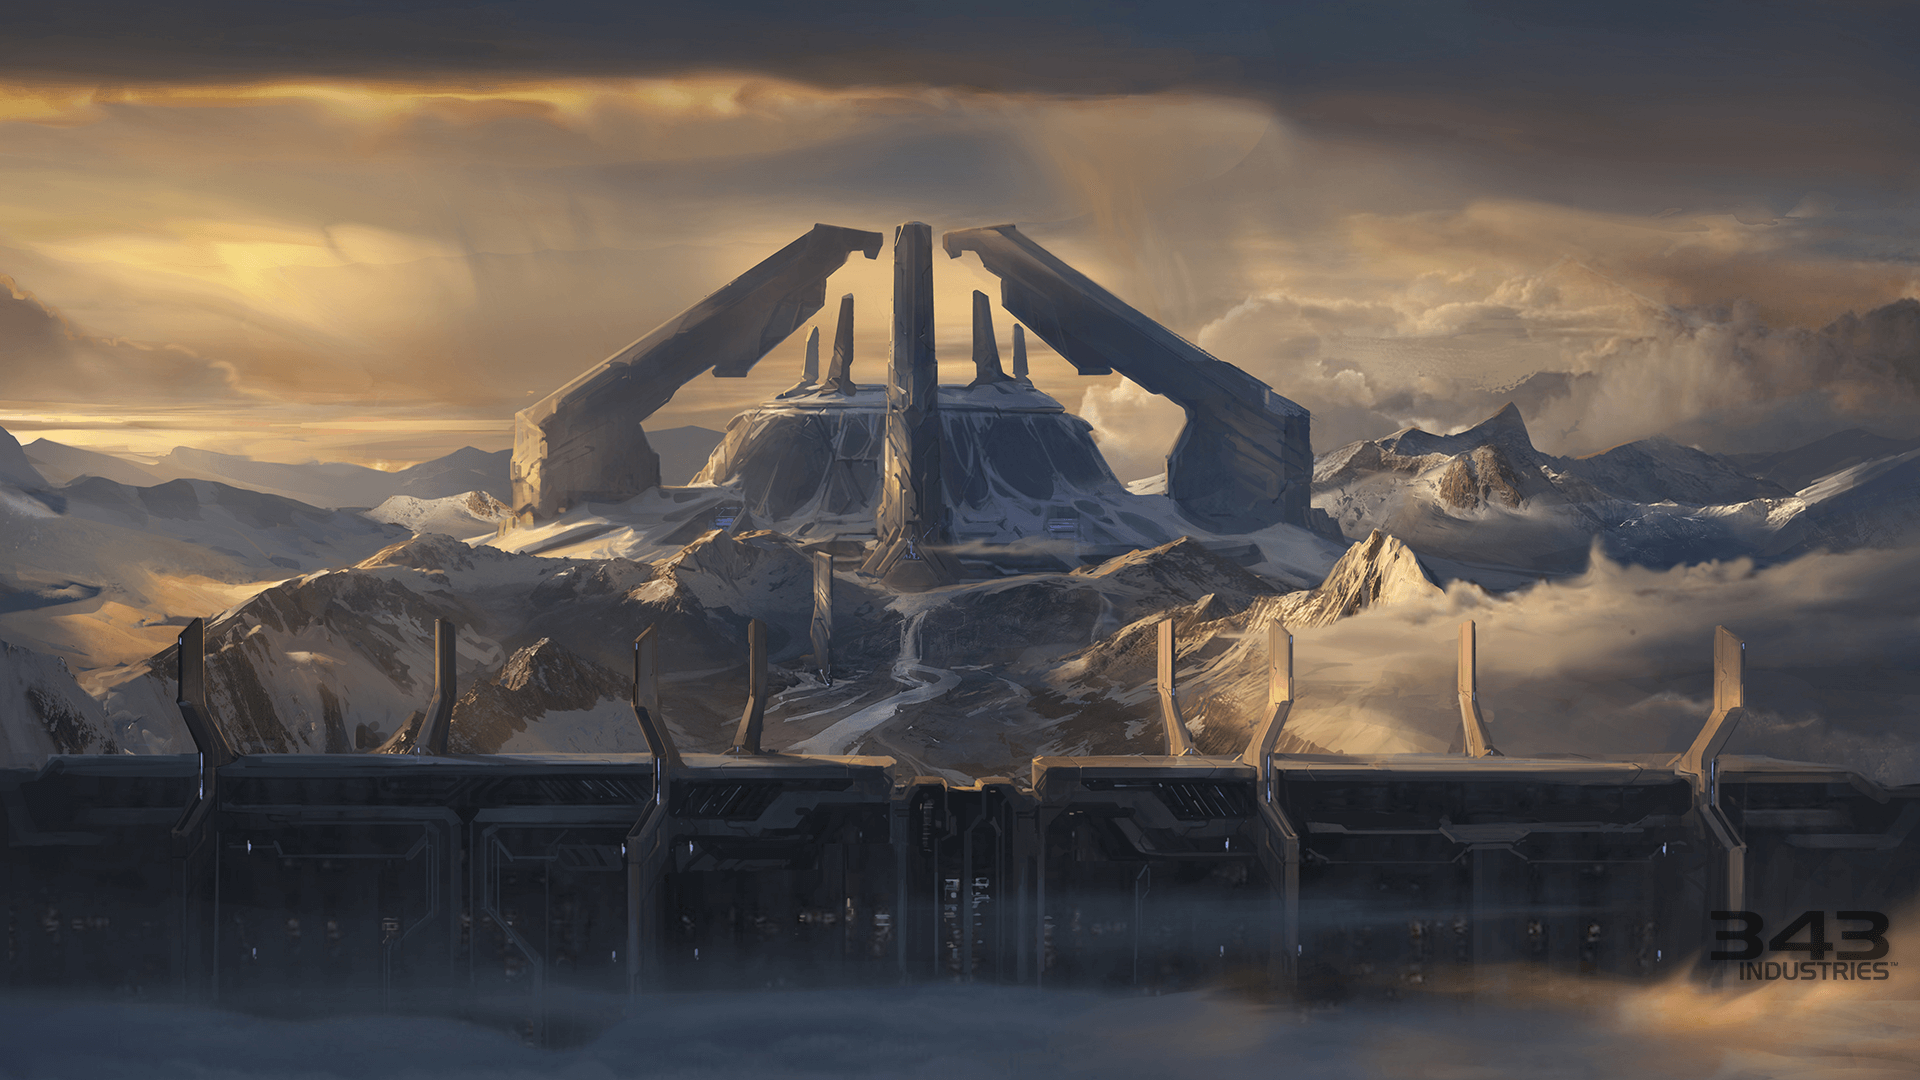
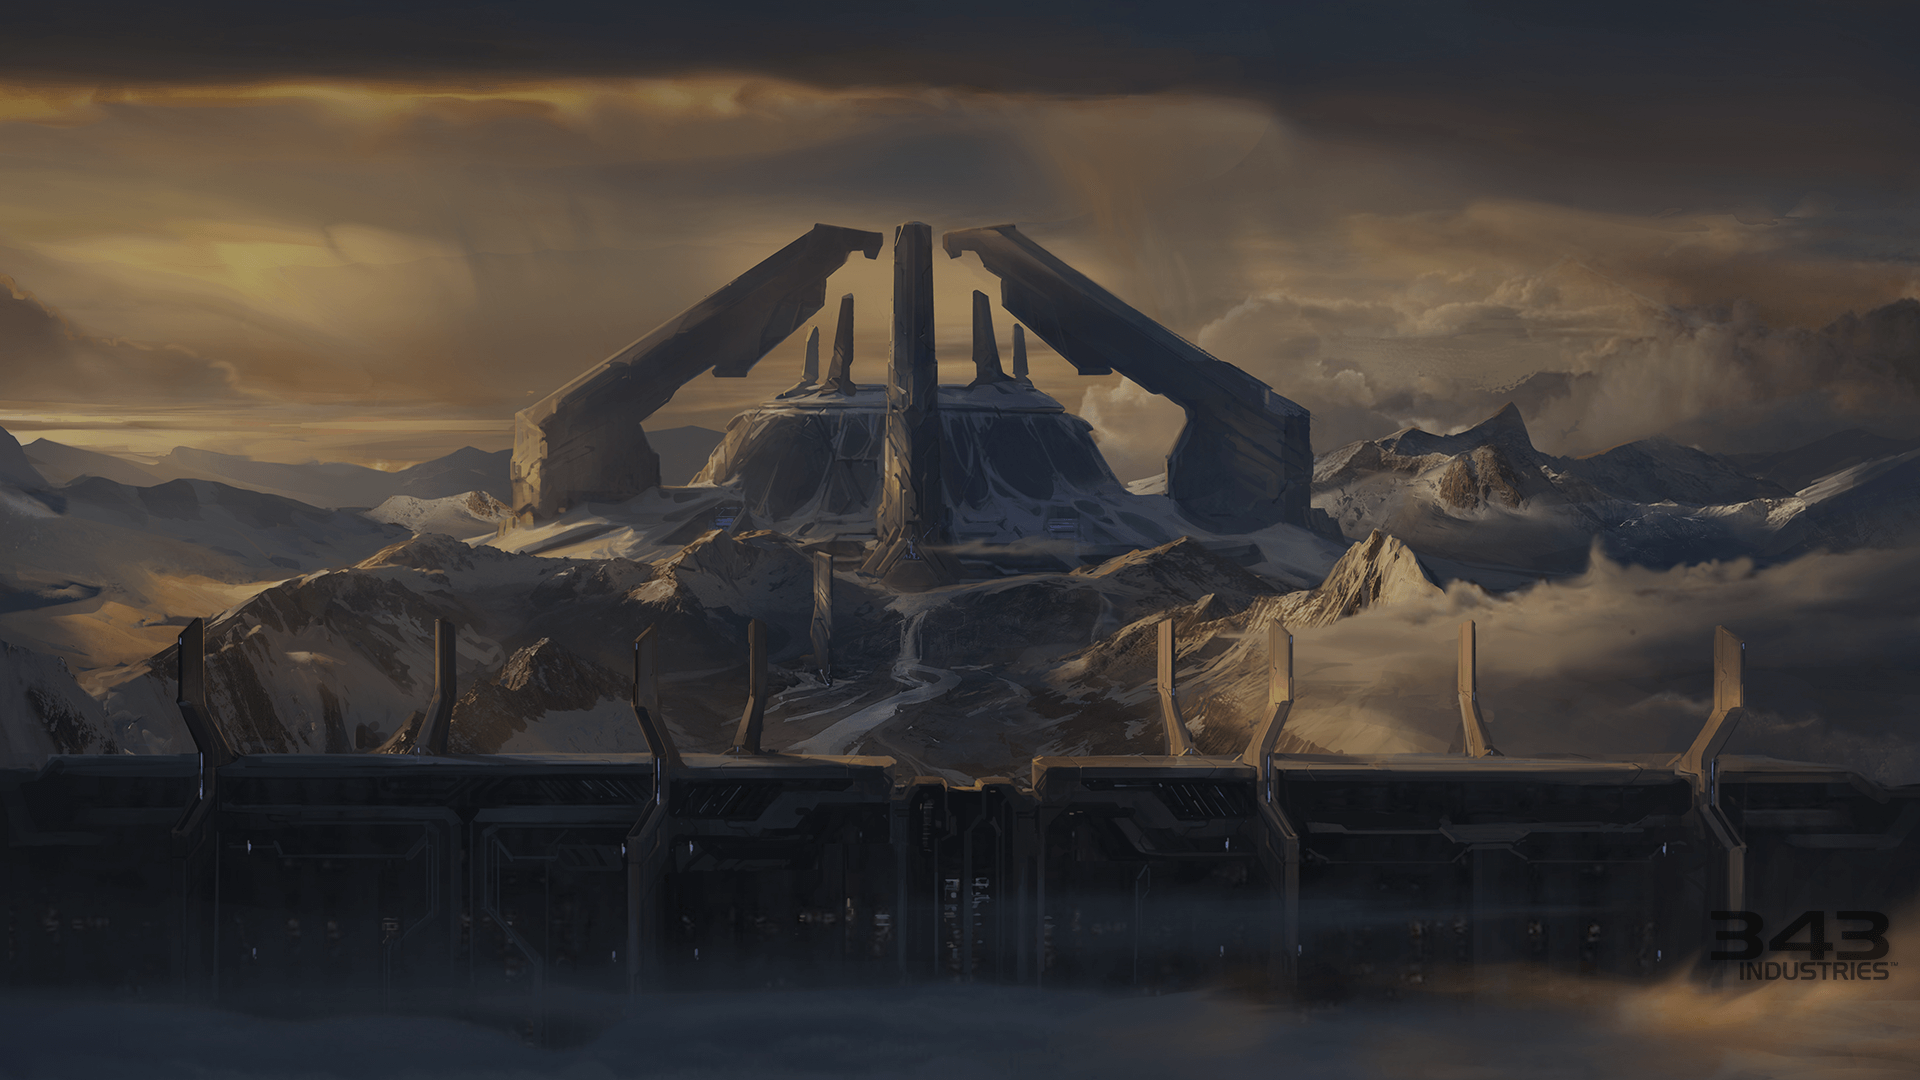
Se cambio la imagen de fondo por una mas oscura, se agregaron estilos a la sección principal y se agregaron estilos al aside que contiene la publicidad.

diff --git a/css/estilos.css b/css/estilos.css
@@ -16,6 +16,11 @@ body {
     margin: 20px; 
     width: 90%;
     max-width: 1000px;
+    /* Flexbox */
+    display: flex;
+    flex-direction: row;
+    flex-wrap: wrap; /*Para los elementos que no caben se pongan abajo*/
+
 }
 
 header {
@@ -55,3 +60,58 @@ header .menu a {
 header .menu a:hover {
     text-decoration: underline;
 }
+
+.main {
+    background: #fff;
+    padding: 20px;
+    width: 70%;
+}
+
+.main article .thumb {
+    margin-bottom: 20px;
+}
+
+.main article .thumb img {
+    width: 100%;
+    vertical-align: top;
+}
+
+.main article h2 {
+    margin-bottom: 20px;
+    font-weight: normal;
+    font-size: 32px;
+}
+
+.main article p {
+    margin-bottom: 20px;
+    font-size: 14px;
+    line-height: 27px;
+}
+
+aside {
+    width: 30%;
+    background: #537dca;
+    padding: 20px;
+    /* Flexbox */
+    display: flex;
+    flex-direction: column;
+    flex-wrap: wrap;
+    justify-content: space-between;
+}
+
+aside .ad {
+    font-size: 30px;
+    text-align: center;
+    color: #fff;
+    padding: 50px 0;
+    background: #4264a2;
+    /* margin-bottom: 20px ; */
+}
+
+
+
+
+
+
+
+

diff --git a/index.html b/index.html
@@ -25,7 +25,7 @@
                 </nav>
             </header>
             <!-- Contenido principal -->
-            <section>
+            <section class="main">
                 <article>
                     <div class="thumb">
                         <img src="img/extra.jpg" alt="Imagen principal de la página">
